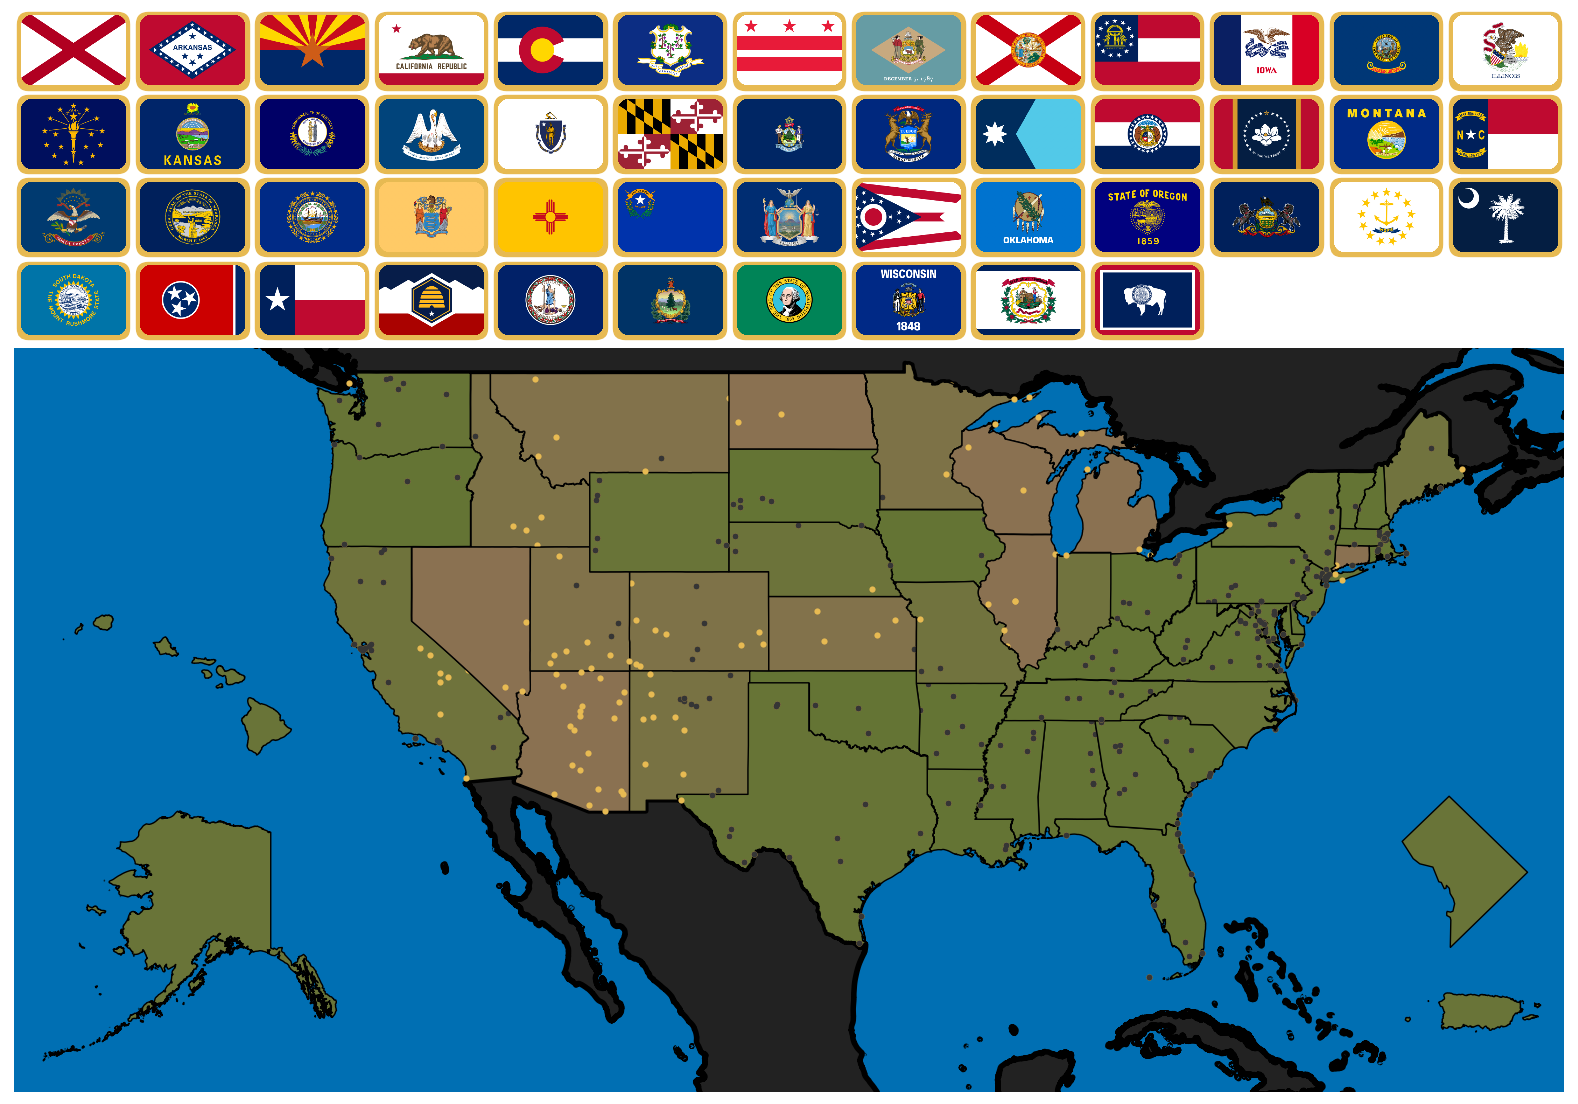
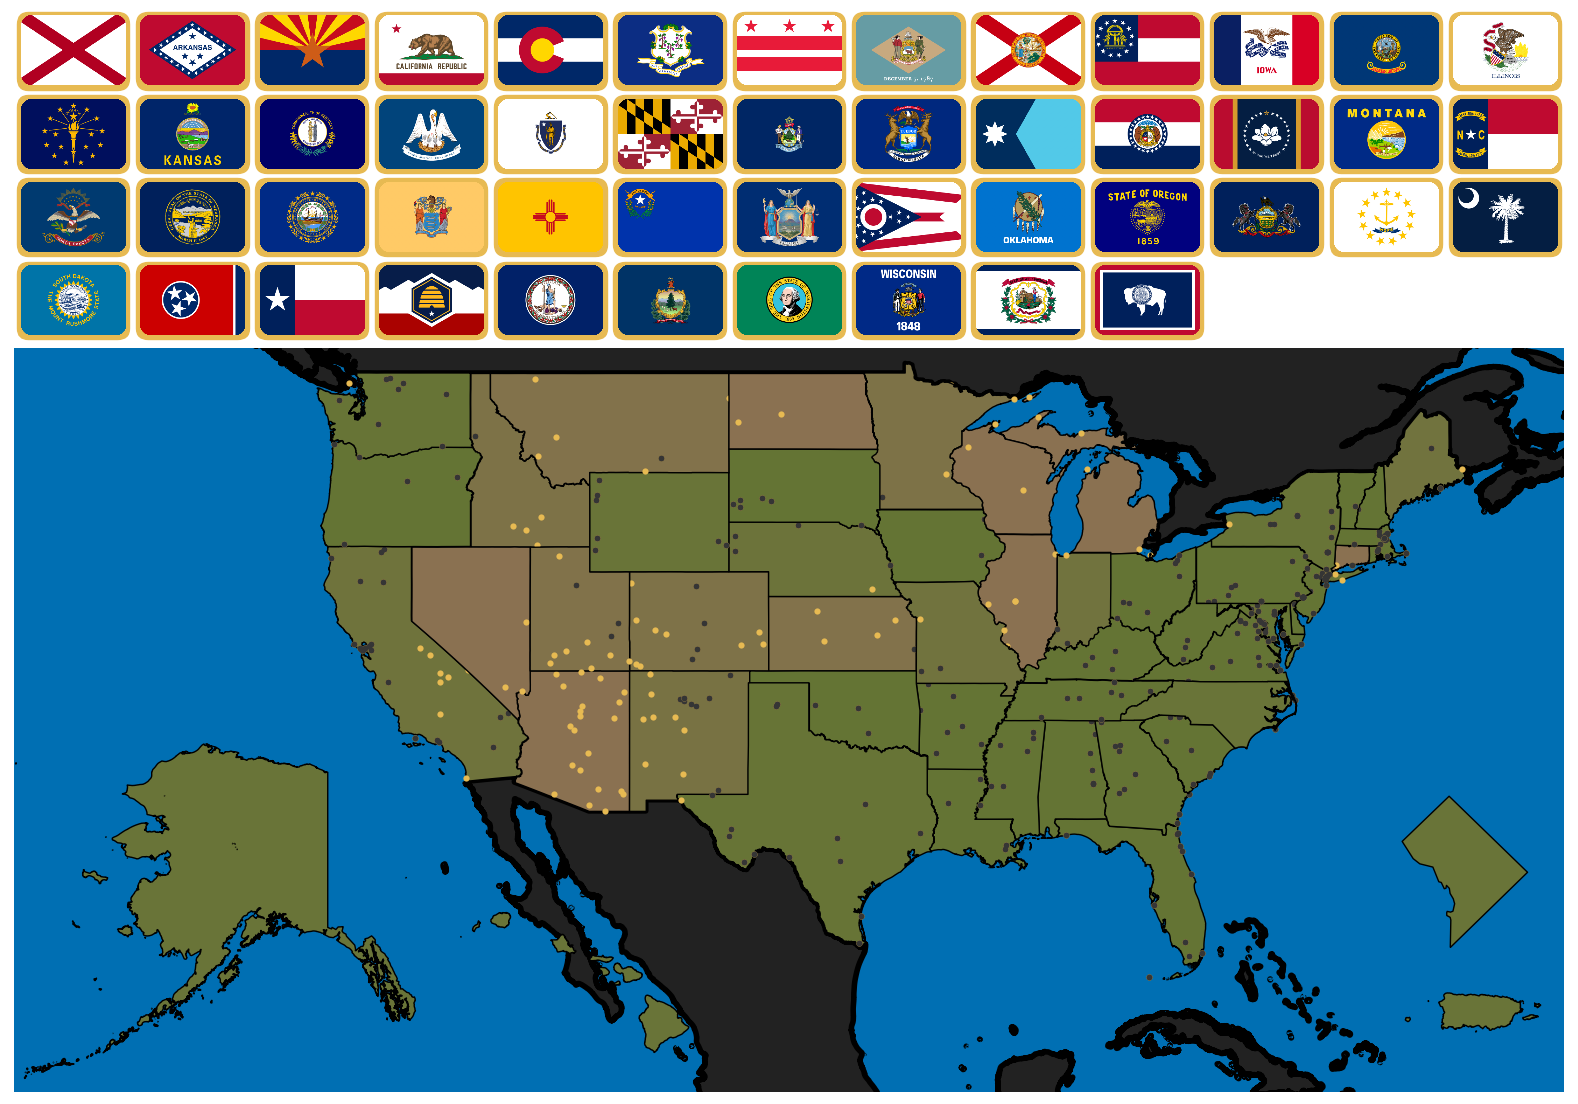
update point plotting

diff --git a/plotting/plotting_manager.py b/plotting/plotting_manager.py
@@ -115,7 +115,12 @@ class PlotManager:
         
         # Breakout Map Plotting
         for bomap in self.bomaps:
+            print(bomap["Name"])
             #bomap_points = self.points_gdf[self.points_gdf['submap'] == bomap["Name"]]
+
+            bomap_points = self.points_gdf.loc[
+                self.points_gdf['submap'] == bomap["Name"]
+            ].copy()
 
             color = CustomCmap(self.map_dark, self.map_light).value(ratio)
 
@@ -137,13 +142,13 @@ class PlotManager:
 
             # Scale and Shift Points
             # scale
-            #bomap_points["geometry"] = bomap_points["geometry"].apply(
-            #    lambda geom: affinity.scale(geom, xfact=scale[0], yfact=scale[1], origin=(0, 0))
-            #)
+            bomap_points["geometry"] = bomap_points["geometry"].apply(
+                lambda geom: affinity.scale(geom, xfact=scale[0], yfact=scale[1], origin="center")
+            )
             # translate
-            #bomap_points["geometry"] = bomap_points["geometry"].apply(
-            #    lambda geom: affinity.translate(geom, xoff=xoff, yoff=yoff)
-            #)
+            bomap_points["geometry"] = bomap_points["geometry"].apply(
+                lambda geom: affinity.translate(geom, xoff=xoff, yoff=yoff)
+            )
 
             bomap_gdf.plot(ax=ax, edgecolor="black", linewidth=1/self.scale, color=color, alpha=1)  
 
@@ -152,9 +157,6 @@ class PlotManager:
     def _plot_points(self, ax, current_date, points, type="normal"):
         scale_factor = self.marker_size
 
-        #if self.scale < 3:
-            
-        
         # Invisible layer to force map scaling
         if type=="clear":
             points.plot(ax=ax, color="black", linewidth=0, markersize=scale_factor, alpha=0)

diff --git a/main.py b/main.py
@@ -90,6 +90,6 @@ plot_manager = PlotManager(
     scale=5
 )
 
-plot_manager.generate_plot(old_date, row, copy=False)
+#plot_manager.generate_plot(old_date, row, copy=False)
 
 gif.cleanup_temp()
